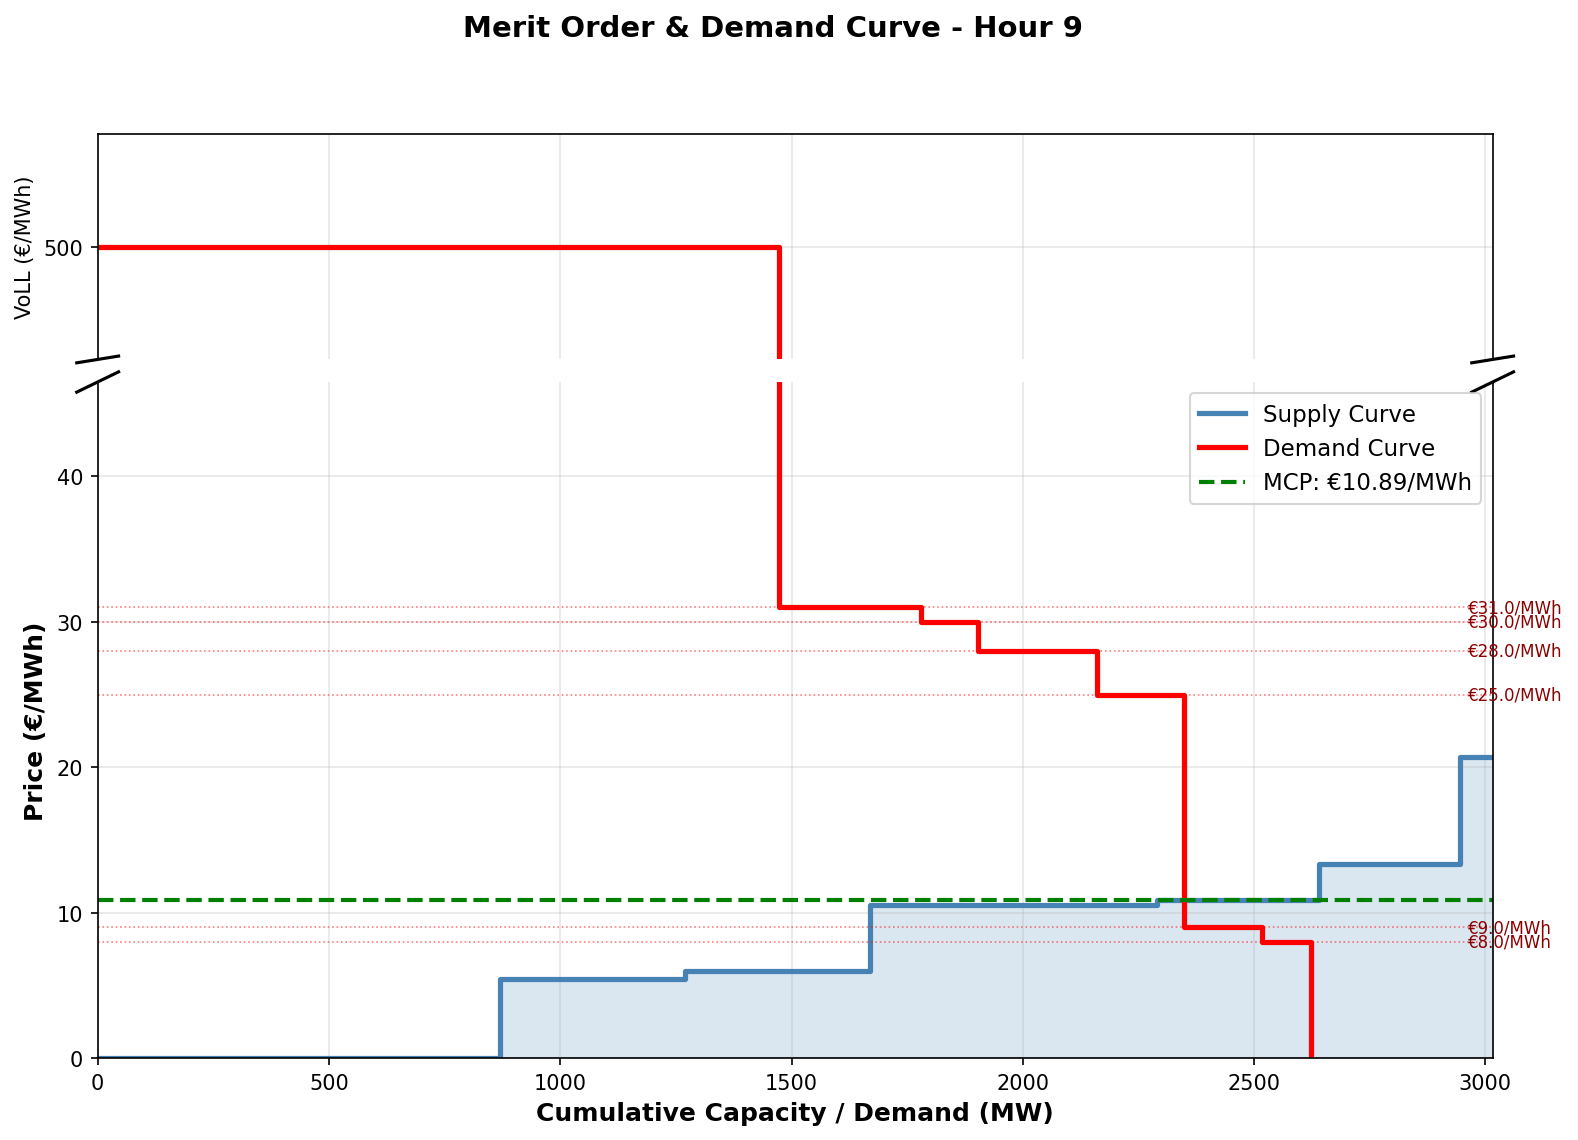
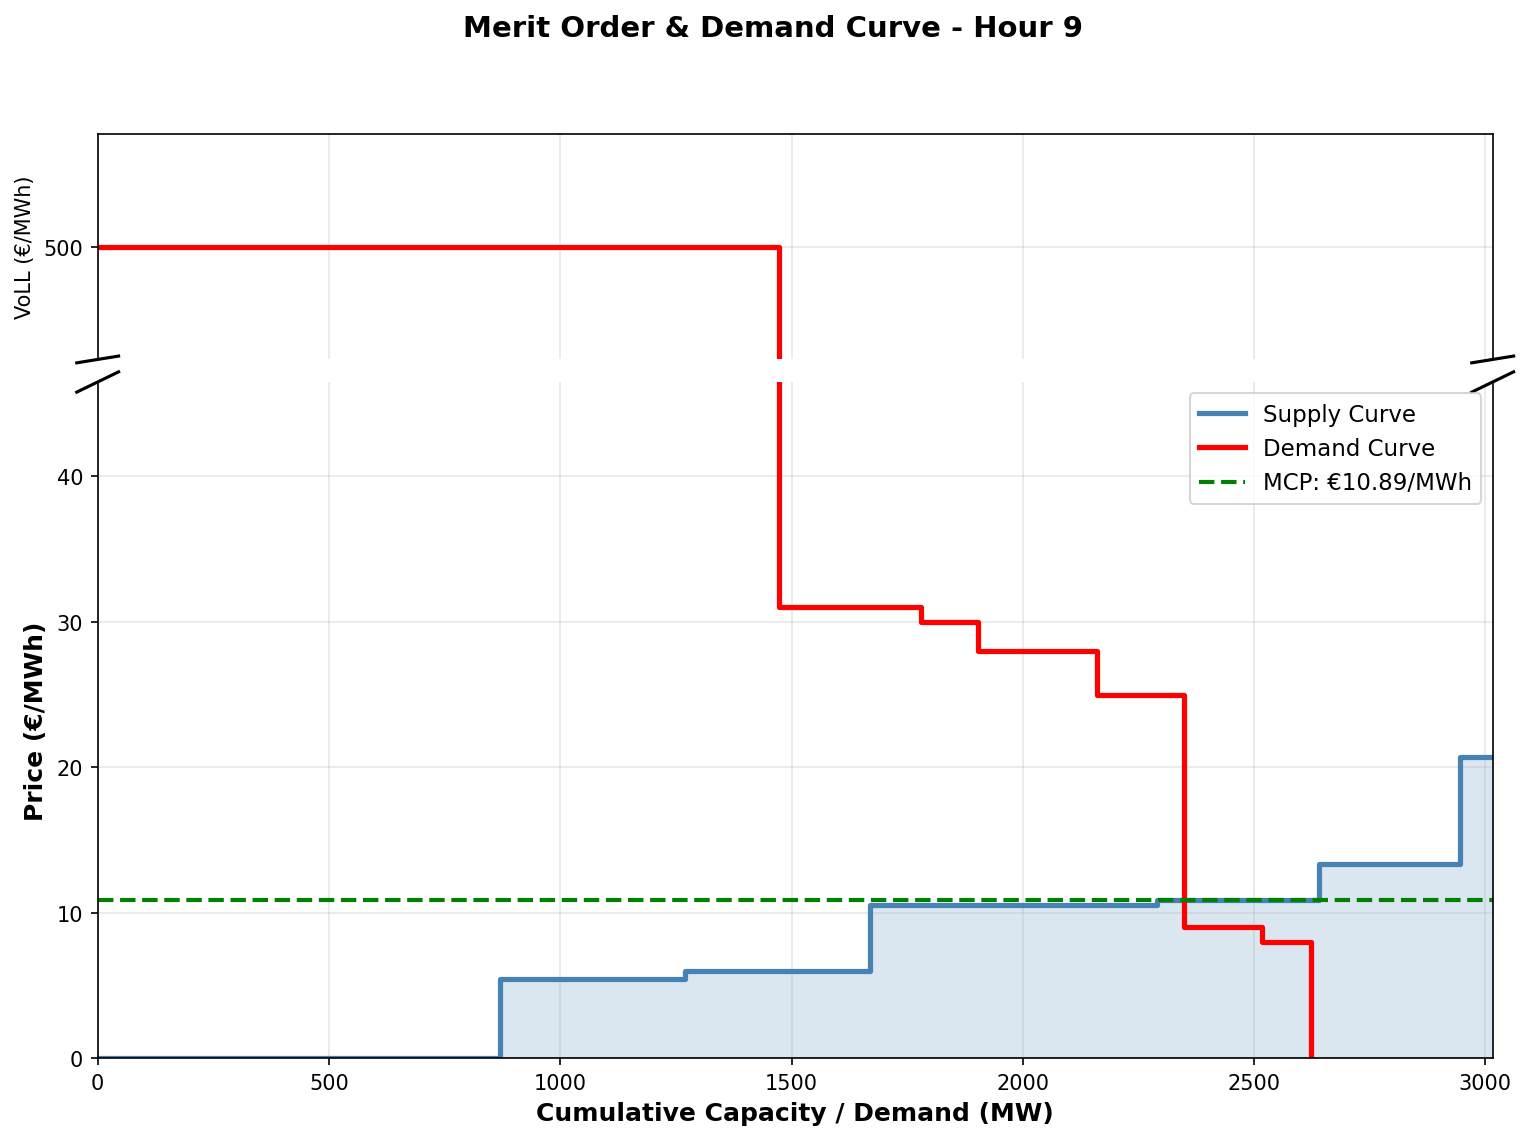
step 1 plot fixed

diff --git a/Assignment_step1.py b/Assignment_step1.py
@@ -497,14 +497,14 @@ ax_bottom.set_xlabel('Cumulative Capacity / Demand (MW)', fontsize=12, fontweigh
 ax_bottom.spines['top'].set_visible(False)
 ax_bottom.legend(fontsize=11, loc='upper right')
 
-# Add dashed reference lines for each elastic bid price
-for bid_price in sorted(set(elastic_bid_prices.values())):
-    ax_bottom.axhline(y=bid_price, color='red', linestyle=':', linewidth=0.8, alpha=0.5)
-    ax_bottom.annotate(
-        f'€{bid_price}/MWh',
-        xy=(demand_cumulative[-1] * 1.13, bid_price),
-        fontsize=8, color='darkred', va='center'
-    )
+# # Add dashed reference lines for each elastic bid price
+# for bid_price in sorted(set(elastic_bid_prices.values())):
+#     ax_bottom.axhline(y=bid_price, color='red', linestyle=':', linewidth=0.8, alpha=0.5)
+#     ax_bottom.annotate(
+#         f'€{bid_price}/MWh',
+#         xy=(demand_cumulative[-1] * 1.13, bid_price),
+#         fontsize=8, color='darkred', va='center'
+#     )
 
 # --- Broken axis indicators (diagonal marks at the split) ---
 d = 0.015  # size of diagonal marks
